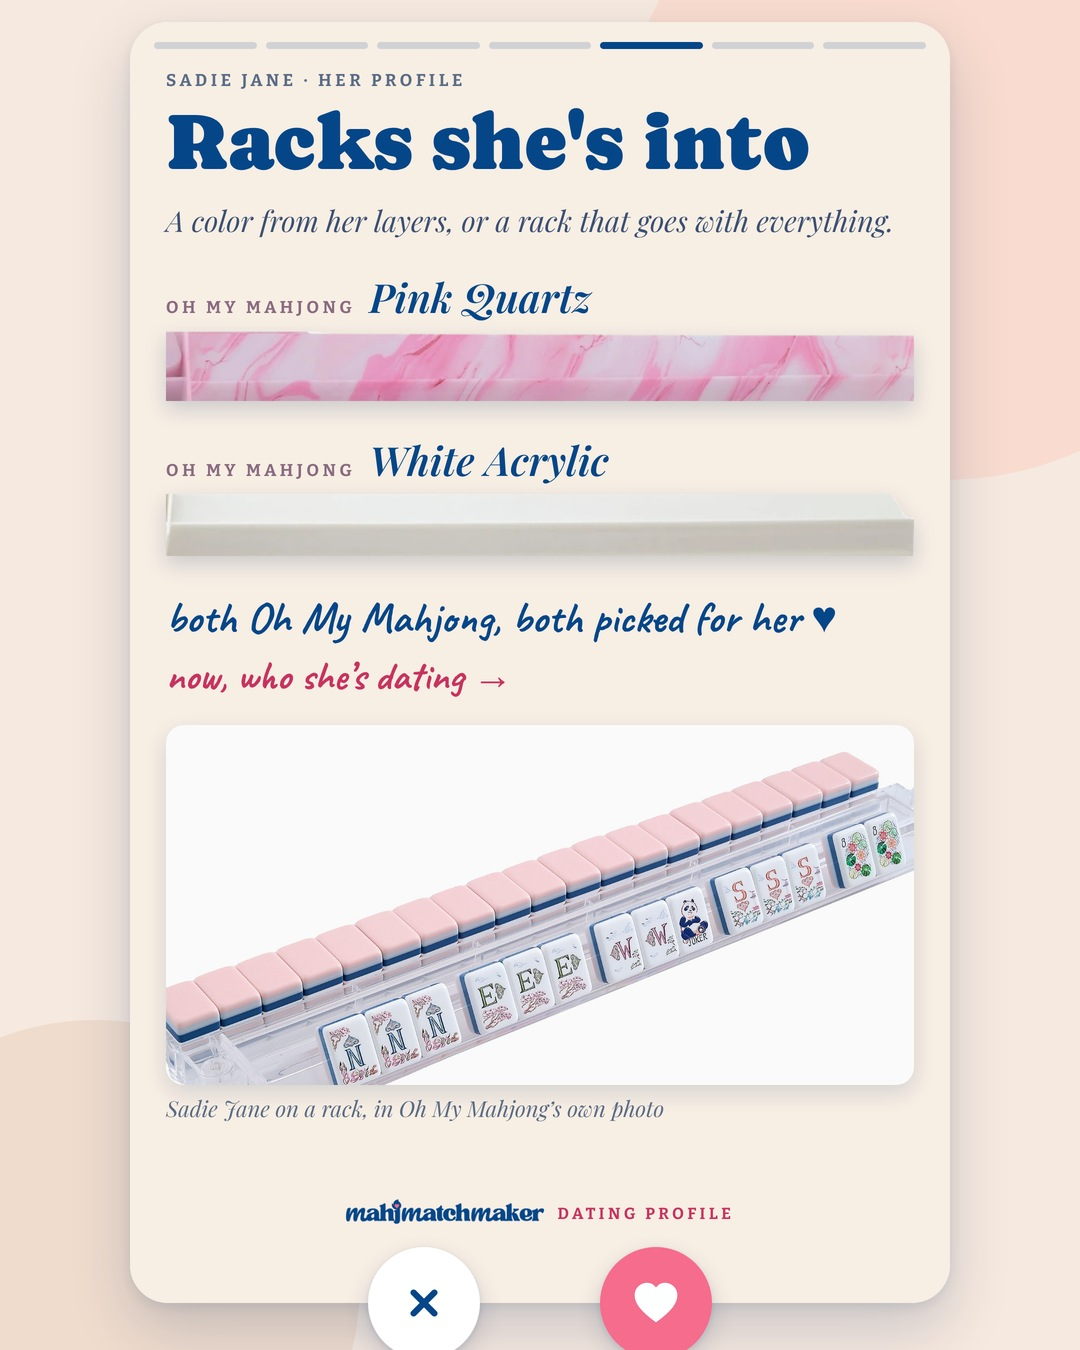
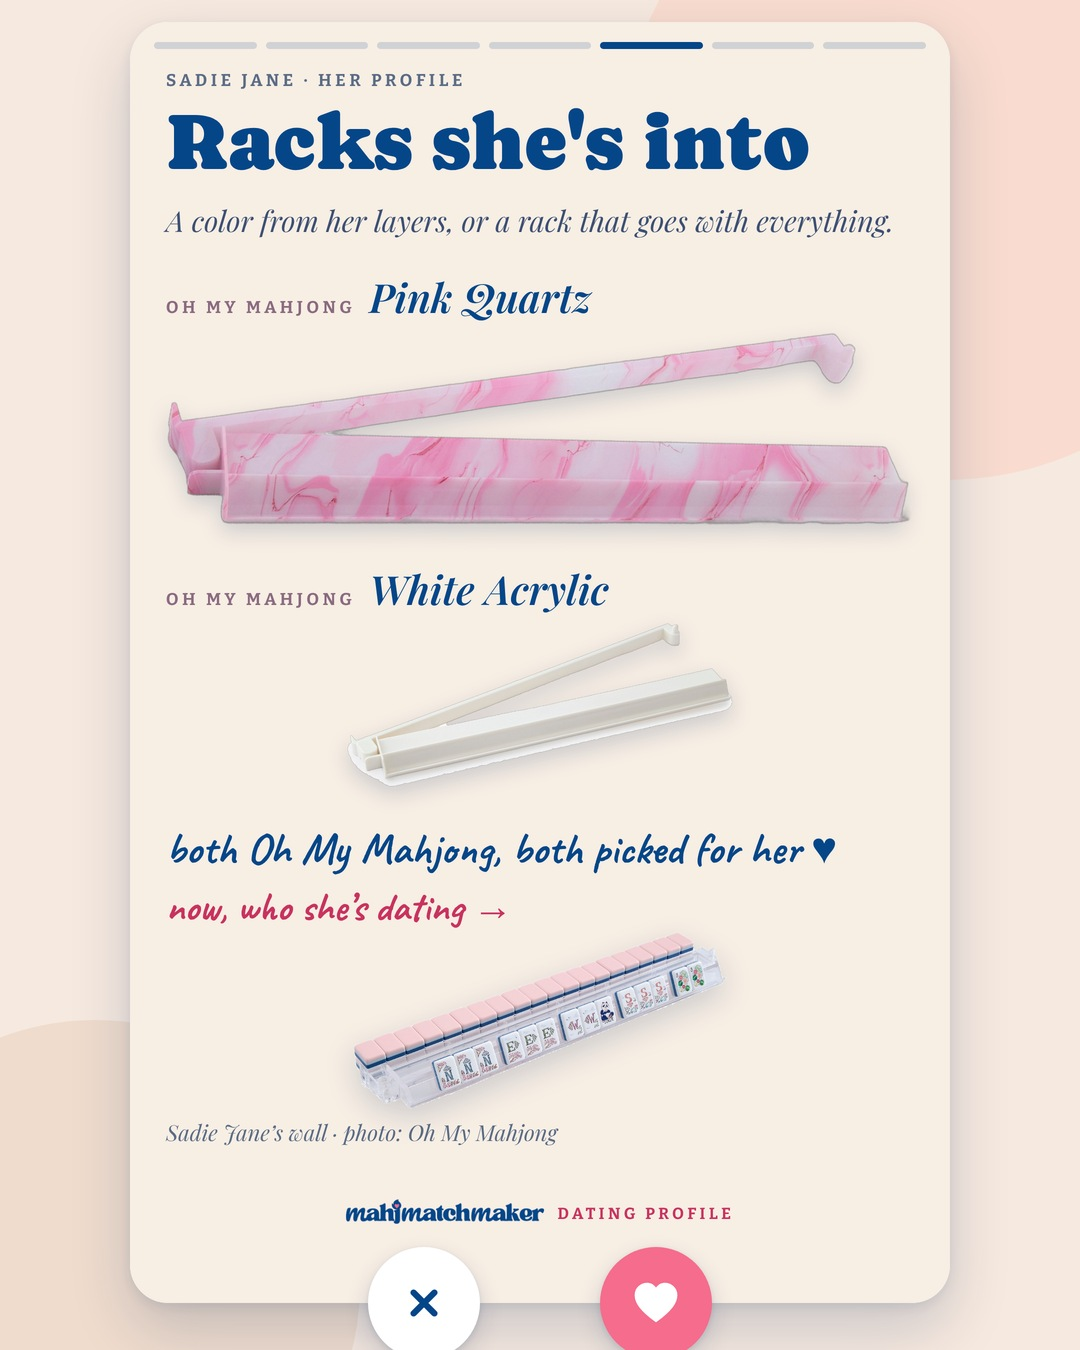
Sadie Jane profile: OMM product rack photos, wall cutout PNG; FYM phone shots
Claude-Session: https://claude.ai/code/session_01UWZfuwFYQL37EbBDGV2NZF

Changed region(s): [[0.1528, 0.2178, 0.8556, 0.8711]]

diff --git a/scripts/social/tileprofile/intro_framed.py b/scripts/social/tileprofile/intro_framed.py
@@ -101,7 +101,7 @@ s4 = (hdr(('Her best features', 72)) +
       f'{ab(L, 676, "display:flex;justify-content:space-between", W)}{sing}</div>')
 
 # ---- slide 5: racks she's into
-RACK = {'Oh My Mahjong Pink Quartz': 'assets/racks/card/oh-my-mahjong-pink-quartz-straight.png', 'Oh My Mahjong White Acrylic': 'assets/racks/card/oh-my-mahjong-white-acrylic.png', 'Bird & Bamboo Ballet Pink': 'assets/racks/card/bird-and-bamboo-ballet-pink.png', 'Bird & Bamboo French Blue': 'assets/racks/card/bird-and-bamboo-french-blue.png', 'Oh My Mahjong Pink Quartz': 'assets/racks/card/oh-my-mahjong-pink-quartz-straight.png', 'Oh My Mahjong Hot Pink': 'assets/racks/card/oh-my-mahjong-hot-pink.png', 'Oh My Mahjong Agate': 'assets/racks/card/oh-my-mahjong-agate.png', 'Bird & Bamboo Lavender': 'assets/colorcards/papaya-spritz/racks/bird-and-bamboo-lavender.png', 'Peace Love Mahjong Chartreuse': 'assets/racks/card/peace-love-mahjong-chartreuse.png',
+RACK = {'Oh My Mahjong White Acrylic': 'assets/racks/card/oh-my-mahjong-white-acrylic-product.png', 'Bird & Bamboo Ballet Pink': 'assets/racks/card/bird-and-bamboo-ballet-pink.png', 'Bird & Bamboo French Blue': 'assets/racks/card/bird-and-bamboo-french-blue.png', 'Oh My Mahjong Pink Quartz': 'assets/racks/card/oh-my-mahjong-pink-quartz.png', 'Oh My Mahjong Hot Pink': 'assets/racks/card/oh-my-mahjong-hot-pink.png', 'Oh My Mahjong Agate': 'assets/racks/card/oh-my-mahjong-agate.png', 'Bird & Bamboo Lavender': 'assets/colorcards/papaya-spritz/racks/bird-and-bamboo-lavender.png', 'Peace Love Mahjong Chartreuse': 'assets/racks/card/peace-love-mahjong-chartreuse.png',
         'Peace Love Mahjong Oak': 'assets/racks/card/peace-love-mahjong-oak.png', 'Middle & Main Scalloped Beechwood': 'assets/racks/card/middle--main-scalloped-beechwood.png',
         'Mahjong Row & Co. Scalloped Tortoise': 'assets/racks/card/mahjong-row--co-scalloped-tortoise.png'}
 RACK.update({k: v for k, v in S.get('rack_imgs', {}).items() if k not in RACK})   # Nov 11: colour-card rack photos (as carousel.py)
@@ -126,8 +126,8 @@ if _ver:
 else:
     _body = (grp("color") + f'<div class="hand" style="font-size:44px;margin-top:34px;color:var(--navy)">{P.get("racks_hand_framed") or P.get("racks_hand", "all three picked for her, not just any rack")} &hearts;</div>'
              f'<div class="hand" style="font-size:40px;margin-top:6px;color:var(--pink)">now, who she&rsquo;s dating &rarr;</div>'
-             + (f'<div style="margin-top:24px;height:360px;border-radius:18px;overflow:hidden;box-shadow:0 8px 22px rgba(6,40,90,.14);background:#fff url({url(P["racks_photo"])}) center/cover no-repeat"></div>'
-                f'<div class="pf" style="font-size:22px;color:#5a6b85;margin-top:8px">{e(P.get("racks_photo_caption", ""))}</div>' if P.get('racks_photo') else ''))
+             + (((f'<img src="{url(P["racks_photo"])}" style="display:block;width:{int(W*0.5)}px;margin:0 auto;filter:drop-shadow(0 10px 14px rgba(6,40,90,.18))">') if P["racks_photo"].endswith('.png') else f'<div style="margin-top:24px;height:360px;border-radius:18px;overflow:hidden;box-shadow:0 8px 22px rgba(6,40,90,.14);background:#fff url({url(P["racks_photo"])}) center/cover no-repeat"></div>')
+                + f'<div class="pf" style="font-size:22px;color:#5a6b85;margin-top:8px">{e(P.get("racks_photo_caption", ""))}</div>' if P.get('racks_photo') else ''))
 s5 = (hdr(("Racks she's into", 80)) +
       f'{ab(L, 180, "", W)}<div class="pf" style="font-size:29px;line-height:1.25;color:#3c4f73">A color from her layers, or a rack that goes with everything.</div>'
       + _body + '</div>')

diff --git a/docs/ANSWERS.md b/docs/ANSWERS.md
@@ -1742,3 +1742,5 @@ Tiffany: tabletop room images look AI, don't want them. Use the clean flat/aeria
 - 2026-11-23 7:25pm Tiffany asked whether a story can use a comment keyword: stories have no comments, but a REPLY to a story with a keyword can auto-DM (Planoly automations: comment on post/reel, story reply, DM keyword). Offered a keyword automation (e.g. reply MATCH -> DM with the Find Your Mat-ch link); needs her yes (it sends DMs from her account). (Main)
 - 2026-11-23 ~7:35pm Main: Sadie Jane social v2: profile all-OMM (OMM Pink Quartz + White racks, 'But she likes to play the field' FYM Table-view slide, OMM-only cards on the end slide); NEW middle post = FYM Table-view carousel, 6 OMM mats + CTA (assets/social/sadie-jane-launch/fym-carousel). Top-8 grid + 10s album reel retired. Reel (FYM Table view hook, OMM only) next. (Main)
 - 2026-11-23 7:27pm Tiffany: yes to the story keyword. Existing Planoly automation 'MATCH → Find Your Mat-ch link' (comments on every IG post/reel, on, sent 2) kept; NEW 'MATCH story reply → Find Your Mat-ch link' (replies to every IG story with MATCH, same message) created + ON 7:30pm, no warnings. She posts the reel herself (adds music); Claude may post carousels that need no music. (Main)
+- 2026-11-23 7:31pm Tiffany: MATCH automation only sent 2 though she saw ~3 Facebook comments + another on IG. Checked: IG side matches (Dear Santa reel 2 comments = 2 sent; other IG posts 0-1 comments, none recent with MATCH found by count). Cause: automation ran on Instagram only. Main added Facebook (Page posts) to it, but Planoly reports the FB Page was linked WITHOUT comment + Messenger permissions -> needs her 1-min reconnect at https://app.planoly.com/settings/workspaces (allow comments + messages). Comments in her Facebook GROUP can't be automated at all. (Main)
+- 2026-11-23 7:29pm Tiffany: profile racks slide must show OMM's racks as their real isolated product photos (like Juniper), not straight strips; bottom photo = 'Sadie Jane's wall · photo: Oh My Mahjong' as a PNG overlay (no white box); 'Match her up in Find Your Mat-ch' carousel should show the table ON THE PHONE (white iPhone). Song: Pink Pony Club (her pick 7:31pm). DONE racks slide (OMM Pink Quartz product png + OMM White product cutout + wall cutout). (Main)
